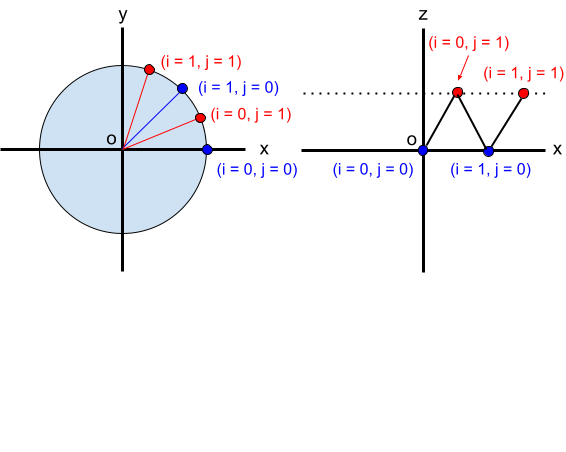
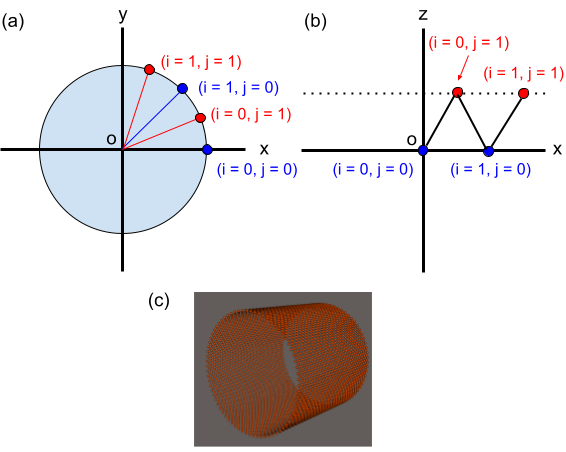
Add files via upload

diff --git a/MESH2LAMMPS/mkcylinder.py b/MESH2LAMMPS/mkcylinder.py
@@ -1,0 +1,62 @@
+import numpy as np
+import trimesh
+
+def trimesh_cylinder (radius = 10.0,
+                      height = 20.0,
+                      n_theta = 64,
+                      n_z = 40,
+                      twist_ratio = 0.5
+                      ):
+
+    vertices = []
+    faces = []
+
+    dtheta = 2 * np.pi / n_theta
+    dz = height / n_z
+
+    ### angle betweem (i,j) - (i,j+1) on x-y plane ###
+    twist = twist_ratio * dtheta
+
+    ### nodes generator ###
+    for j in range(n_z + 1):
+        z = j * dz
+        theta_offset = j * twist
+        for i in range(n_theta):
+            theta = i * dtheta + theta_offset
+            x = radius * np.cos(theta)
+            y = radius * np.sin(theta)
+            vertices.append([x, y, z])
+    vertices = np.array(vertices)
+
+    ### vertices index ####
+    def vid(i, j):
+        return j * n_theta + (i % n_theta)
+
+    ### triangle faces generator ###
+    for j in range(n_z):
+        for i in range(n_theta):
+            faces.append ([vid(i, j), 
+                           vid(i + 1, j), 
+                           vid(i, j + 1)
+                         ])
+            faces.append ([vid(i + 1, j), 
+                           vid(i + 1, j + 1), 
+                           vid(i, j + 1)
+                         ])
+
+    return trimesh.Trimesh (vertices = vertices,
+                            faces = np.array (faces),
+                            process = True)
+
+if __name__ == "__main__":
+    mesh = trimesh_cylinder (radius = 10,
+                             height = 20,
+                             n_theta = 72,
+                             n_z = 50,
+                             twist_ratio = 0.5
+                             )
+
+    print("faces:", len(mesh.faces))
+    print("watertight:", mesh.is_watertight)
+
+    mesh.export("cylinder.stl")

diff --git a/MESH2LAMMPS/data2vtk.py b/MESH2LAMMPS/data2vtk.py
@@ -1,0 +1,49 @@
+import numpy as np
+import sys
+import os
+
+def read_lammps_data_atoms(filename):
+    atoms = []
+    types = []
+
+    with open(filename) as f:
+        in_atoms = False
+        for line in f:
+            if line.strip().startswith("Atoms"):
+                in_atoms = True
+                next(f)
+                continue
+            if in_atoms:
+                if line.strip() == "":
+                    break
+                parts = line.split()
+                types.append(int(parts[2]))
+                atoms.append([float(parts[-3]),
+                              float(parts[-2]),
+                              float(parts[-1])])
+
+    return np.array(atoms), np.array(types)
+
+def write_vtk_points(filename, points, types):
+    with open(filename, "w") as f:
+        f.write("# vtk DataFile Version 3.0\n")
+        f.write("LAMMPS particles\n")
+        f.write("ASCII\n")
+        f.write("DATASET POLYDATA\n")
+        f.write(f"POINTS {len(points)} float\n")
+        for x, y, z in points:
+            f.write(f"{x} {y} {z}\n")
+
+        f.write(f"\nPOINT_DATA {len(points)}\n")
+        f.write("SCALARS type int 1\n")
+        f.write("LOOKUP_TABLE default\n")
+        for t in types:
+            f.write(f"{t}\n")
+
+if __name__ == "__main__":
+   argv = sys.argv
+   filename = argv[1]
+   name = os.path.splitext(filename)[0] + '.vtk'
+   points, types = read_lammps_data_atoms(filename)
+   write_vtk_points(name, points, types)
+
